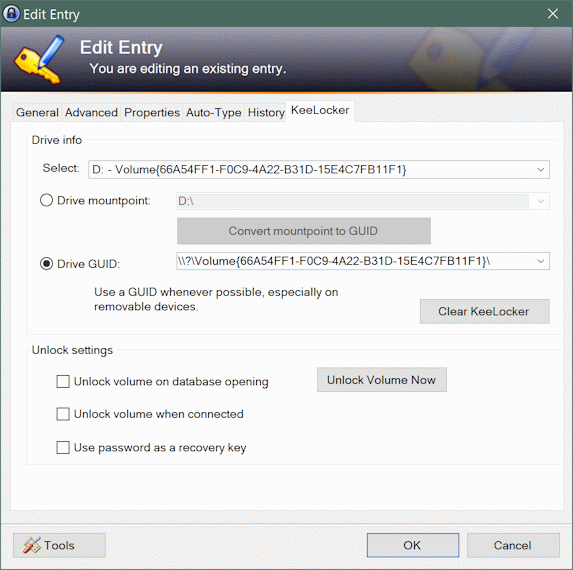
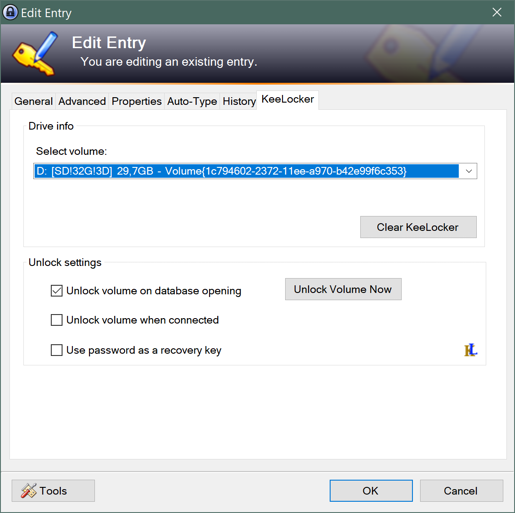
update readme and release version

diff --git a/README.md b/README.md
@@ -1,7 +1,9 @@
 # Info - Important
 
-This a fork of the original KeeLocker plugin (Gugli/KeeLocker)[https://github.com/Gugli/KeeLocker].
-It has updates disabled, and changed author to make it distinguishable.
+This a fork of the original KeeLocker plugin [Gugli/KeeLocker](https://github.com/Gugli/KeeLocker).
+It has updates changed to this repo, and changed author to make it distinguishable.
+
+The home for this fork is [github.com/lexx9999/KeeLocker](https://github.com/lexx9999/KeeLocker)!
 
 
 # KeeLocker
@@ -9,34 +11,46 @@ KeePass2 plugin to open BitLocker volumes when you open your KeePass database.
 
 Should also work for USB sticks or portable drives.
 
-## The feature
+## The features
 
-This plugin adds the following tab to entries :
+### KeePass started as regular user
+
+This plugin adds the following tab to entries:
+
+If the volume (ake Drive/SSD/HDD/USB-Stick) is connected you can just select it from the dropdown:
 
 ![Select Drive by MountPoint or GUID, and whether you want the drive to open automatically](KeeLockerSettings.png)
 
-## Breaking Changes
+Otherwise you have to select `(None/Custom)` and fill in the VolumeID (like `\\?\Volume{GUID}\`) or MountPoint (like `D:\` or `C:\MountDir\`) manually. It's recommened to create/update entries only for connected drives.
 
-- Starting with KeeLocker 1.7 the defaults for unlocking on database opening and device connect are changed to disabled. Which means you have to reenable them if desired.
+![Select (None/Custom) and fill in VolumeId or MountPoint ](KeeLockerCustomSettings.png)
 
-## How to use
-
-If you have a static drive (let's say a HDD bound to "D:") encrypted with bitlocker, you should :
-
-  -  create a new entry, choose a title you want
-  -  put the password for the drive in the entry usual password field (if you have only a recovery key, please also check "Use password as a recovery key"
-  -  Use `Select` and choose the entry starting with D: the volume in the KeeLocker tab (It shows drive letter and volume label and size if possible) or manually edit the `Drive mountpoint` (drive letter or folder) or `Drive GUID`
-  
 You can also tick one of the following the checkboxes
   
   - "Unlock volume on opening" which will do so when the Database is opened (but that requires to close then open the DB). Or you can click "Unlock Volume Now" to test it right now.
   - "Unlock volume when connected" which will unlock the volume when the device is connected 
   - "Use password as a recovery key" in case the password is a recovery key
 
-## When should I use *Drive GUID* ?
+The `Clear KeeLocker` button will remove fields starting with 'KeeLocker' from the advanced properties.
 
-In short: Always.
+## KeePass started as Administrator - Scan BitLocker volumes
 
-The *Drive GUID* avoids problems for removable devices and if the KeePass database is used on multiple computers.
-USB sticks might get mounted to different drive letters on different computers or even on the same computer if the drive letter is occupied for something else.
-Since 1.7 KeeLocker only attempts to unlock volumes that are enumerated on that system. This prevents spying on api calls, but is only effective if the drive guid is used.
+Preamble: You probably shouldn't run KeePass as Administrator in regular use!
+
+Since this feature requires elevated privileages KeePass must be stared as Administrator to allow it. Otherwise you'll just get a notification indicating the requirement.
+
+![Search BitLocker Volumes feature ](KeeLockerToolsMenu.png)
+
+The scan creates or extends a group `KeeLocker-VolumeSearch` with new Entries for BitLocker volumes. 
+If only recovery-key is defined it will put the recovery key in the password field.
+If password is used it will reserve the password field for the password (or PIN), although you have to enter it manually!
+In recovery-key and also password case the recovery-key is stored as protected field `RecoveryKey`. In this case it's assumed that you prefer to use the password.
+
+Multiple scans will create multiple entries therefore housekeeping is recommended:
+After the scan you should edit the title of entries you want to keep and move them to another group. And finally deleting the left over group.
+
+
+## Breaking Changes
+
+- Starting with KeeLocker 1.7 the defaults for unlocking on database opening and device connect are changed to disabled. Which means you have to reenable them if desired.
+- Starting with KeeLocker 1.7.0.2 the MountPoint might be cleared if there is a volume id (GUID).
